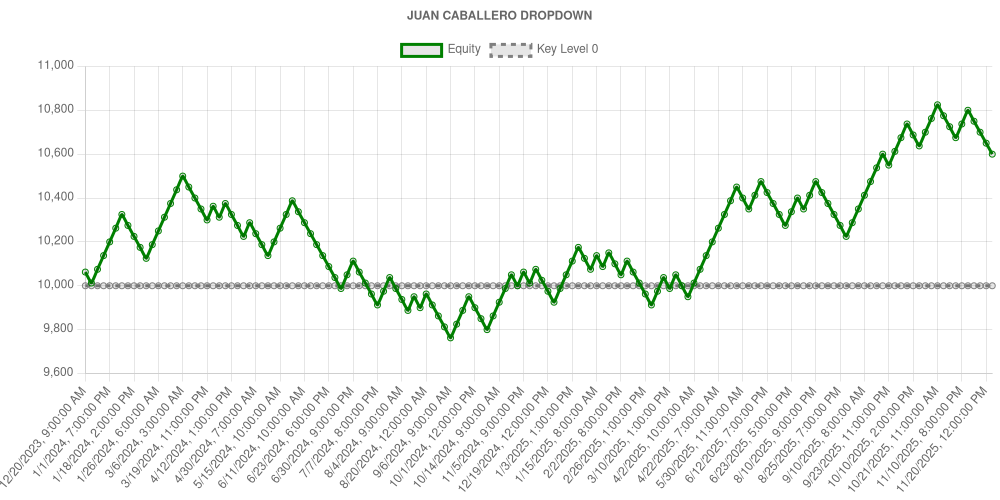
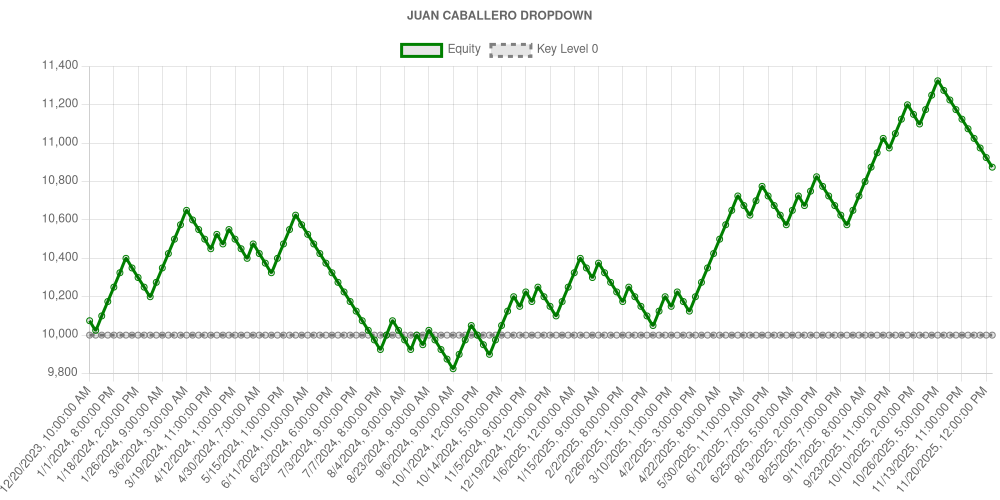
update

Changed region(s): [[0.0, 0.15, 1.0, 0.99], [0.031, 0.12, 0.093, 0.15]]

diff --git a/backend/service-backtest/src/index.ts b/backend/service-backtest/src/index.ts
@@ -266,7 +266,7 @@ export class Backtester {
     const riskPct = 0.5;
     const riskUsd = (accountSize * riskPct) / 100;
 
-    const tp_pct = 5;
+    const tp_pct = 6;
     const sl_pct = 4;
     const tp_decimal = tp_pct / 100;
     const sl_decimal = sl_pct / 100;
